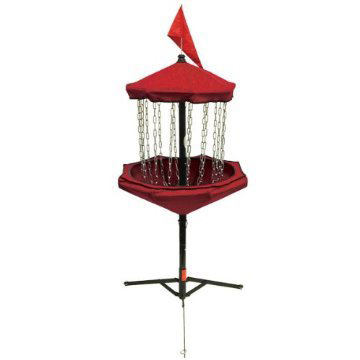
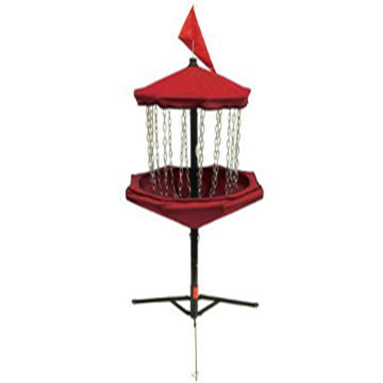
Updated Image sizes
Updated Image sizes and added a table

diff --git a/giacchetta_michael_project4/index.html b/giacchetta_michael_project4/index.html
@@ -60,6 +60,7 @@
 			</ol>
 			<!-- end of bod -->
 		</section>
+		
 		<article>
 	
 		<!-- figures for the images -->
@@ -83,6 +84,30 @@
 			</figure>
 		
 		</article> <!-- end of figures -->
+		
+		<section id="tables">
+			<table>
+						<tr>
+							<th colspan="2">Disc Types</th>
+						</tr>
+						<tr>
+							<th>Distance Driver:</th>
+							<td>11:00 AM - 9:00 PM</td>
+						</tr>
+						<tr class="even">
+							<th>Mid-Range:</th>
+							<td>11:00 AM - 9:00 PM</td>
+						</tr>
+						<tr>
+							<th>Putter:</th>
+							<td>11:00 AM - 9:00 PM</td>
+						</tr>
+						<tr class="even">
+							<th>Multi-Purpose:</th>
+							<td>11:00 AM - 9:00 PM</td>
+						</tr>
+			</table>
+		</section>
 	</div> <!-- bod2 close -->
 </div> <!-- bod close -->
 	

diff --git a/giacchetta_michael_project4/css/main.css b/giacchetta_michael_project4/css/main.css
@@ -144,6 +144,16 @@ figcaption {
 	text-shadow: 4px 4px 10px #4BB5C1;
 }
 
+#tables {
+	width:30%;
+	float: left;
+}
+
+th {
+	text-align:left;
+	border: 1px solid #000;
+}
+
 
 /*-- footer defines bottom nav bar --*/
 footer {
